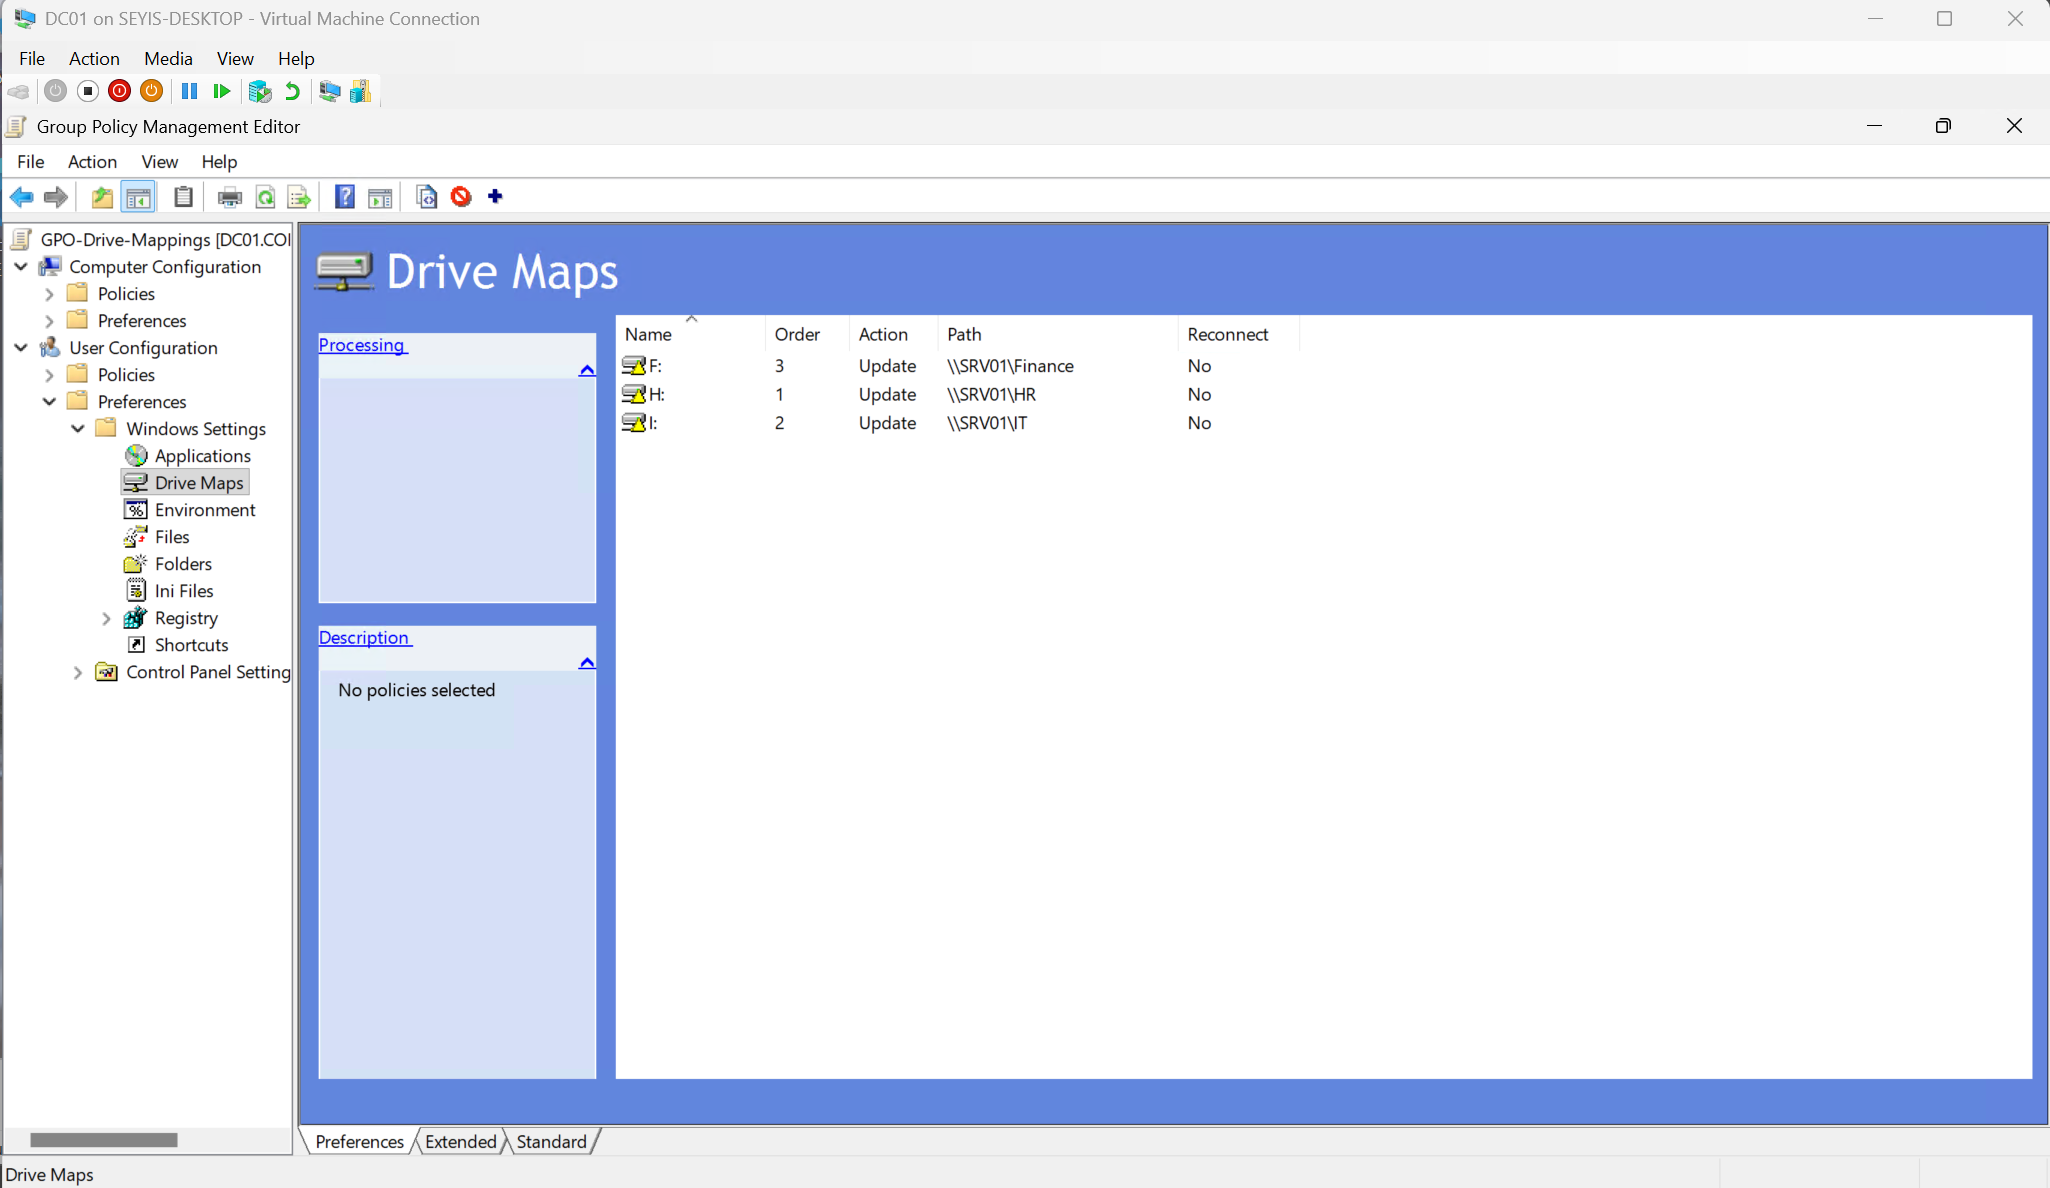
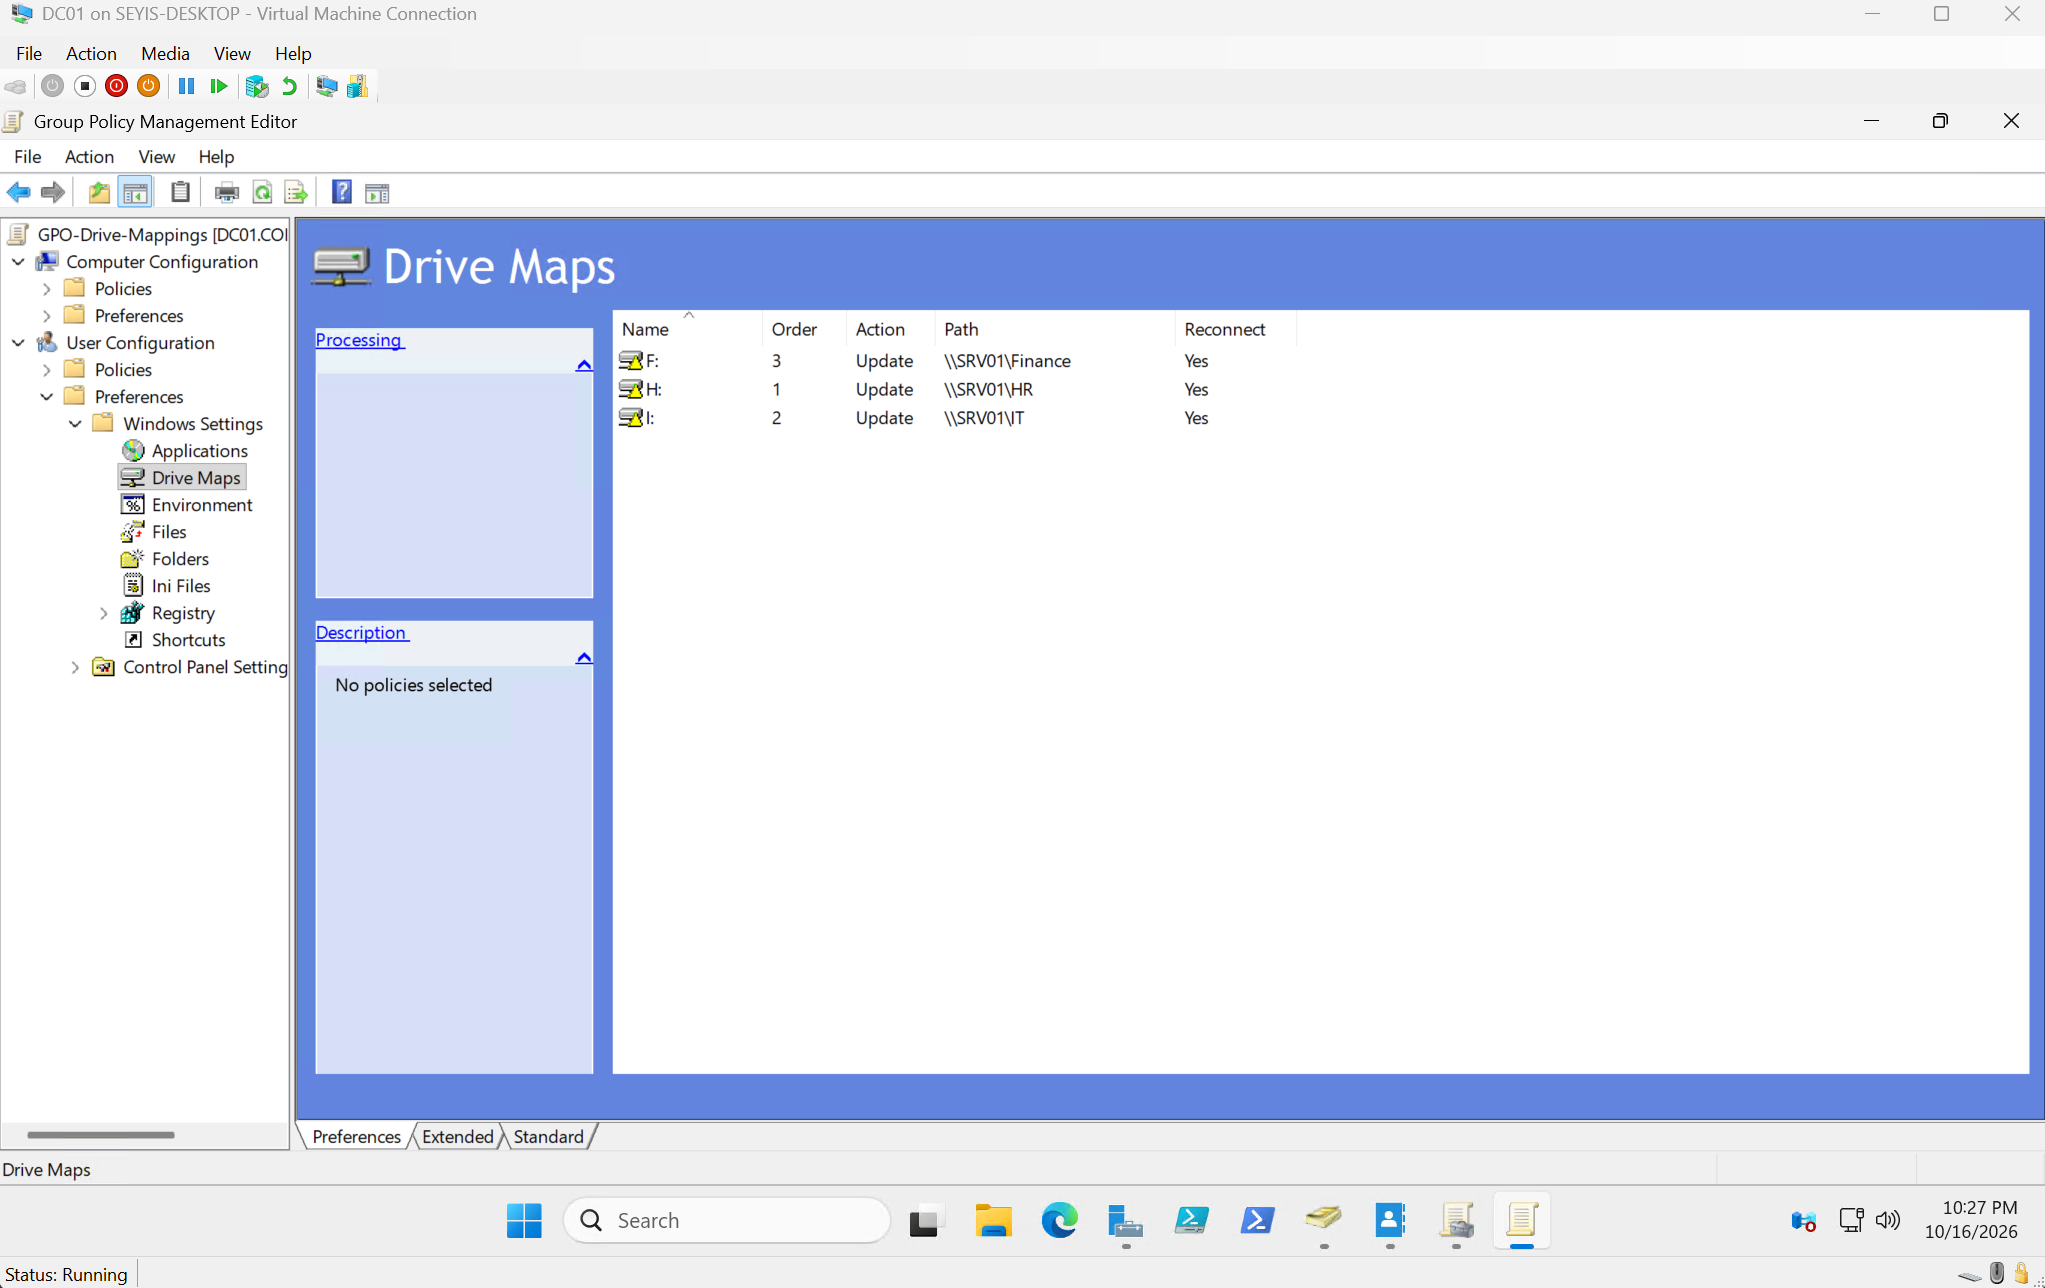
Improved troubleshooting log with detailed GPO application steps. Updated screenshots for group policy validation.

Changed region(s): [[0.0, 0.0, 1.0, 1.0], [0.0, 0.8721, 0.0924, 0.9966]]

diff --git a/docs/troubleshooting.md b/docs/troubleshooting.md
@@ -23,11 +23,7 @@ Instead of configuring the local machine manually, I implemented an enterprise-w
 3. Created an Update rule to explicitly add `CORP\Domain Users` to the built-in `Remote Desktop Users` local group.
 
 **Security Improvement:**
-To follow the principle of least privilege, the broad `Domain Users` membership was replaced with a dedicated security group:
-
-`CORP\GG_Workstation_RDP_Users`
-
-Only authorized users were added to this group.
+To follow the principle of least privilege, the broad `Domain Users` membership was replaced with a separate GPO `GPO-Workstation-RDP` linked to the workstation OU and is configured to automatically assign the `CORP\GG_Workstation_RDP_Users` group as members of the built-in Remote Desktop Users group. Only authorized users are added to this group.
 
 **Validation:** 
 Executed `gpupdate /force` on CLIENT01 via a basic session. Closed the console, re-enabled Enhanced Session, and successfully authenticated as a standard domain user.
@@ -38,16 +34,17 @@ Executed `gpupdate /force` on CLIENT01 via a basic session. Closed the console, 
 After successfully pulling the GPO, `gpresult /r` still did not list the Computer Configuration policy when executed by a standard user.
 
 **Symptoms:** 
-Standard user `ajohnson` could log in via Enhanced Session (proving the GPO worked), but generating a policy report as that user would not show the GPO being applied.
+Standard user `jbrown` could log in via Enhanced Session (proving the GPO worked), but generating a policy report as that user would not show the GPO being applied.
 
 **Investigation:** 
-Active Directory splits Group Policy into Computer Configuration and User Configuration. Standard users lack the local security privileges to read the applied Computer Configuration policies. 
+Standard users lack the local security privileges to read the applied Computer Configuration policies. 
 
 **Root Cause:** 
 By design, running `gpresult` without any administrative privilege only returns the User Scope. 
 
 **Resolution / Validation:** 
-Opened PowerShell as an administrator and executed `gpresult /r /SCOPE COMPUTER`. The report successfully bypassed the user restrictions and exposed the `GPO-Workstation-Security-Baseline` under the Applied Group Policy Objects list.
+Opened PowerShell as an administrator and executed `gpresult /r /SCOPE COMPUTER`. The report
+exposed the `GPO-Workstation-Security-Baseline` under the Applied Group Policy Objects list.
 
 ## 3. DHCP Authorization Kerberos Issue
 

diff --git a/docs/active-directory.md b/docs/active-directory.md
@@ -27,7 +27,7 @@ Active Directory is used to centrally manage users, computers, and security grou
 ## Configuration
 - Created departmental OUs for IT, HR, Finance, and Management.
 - Created domain users using PowerShell and a CSV file.
-- Implementing security groups to manage departmental access.
+- Implemented security groups to manage departmental access.
 
 ### Security Groups
 
@@ -41,7 +41,7 @@ This lab implements the **AGDLP** model:
 
 ```mermaid
 flowchart LR
-    User[User Account<br>ajohnson]
+    User[User Account<br>jbrown]
     GG[GG_HR_Users<br>Global Group]
     DL[DL_HR_RW<br>Domain Local Group]
     Resource[HR Share<br>\\SRV01\HR]

diff --git a/docs/architecture.md b/docs/architecture.md
@@ -139,7 +139,7 @@ External DNS requests are resolved through the DNS server rather than configurin
 
 SRV01 provides DHCP services for client systems.
 
-The planned DHCP scope uses addresses from:
+The DHCP scope uses addresses from:
 
 ```text
 10.10.10.100 - 10.10.10.199
